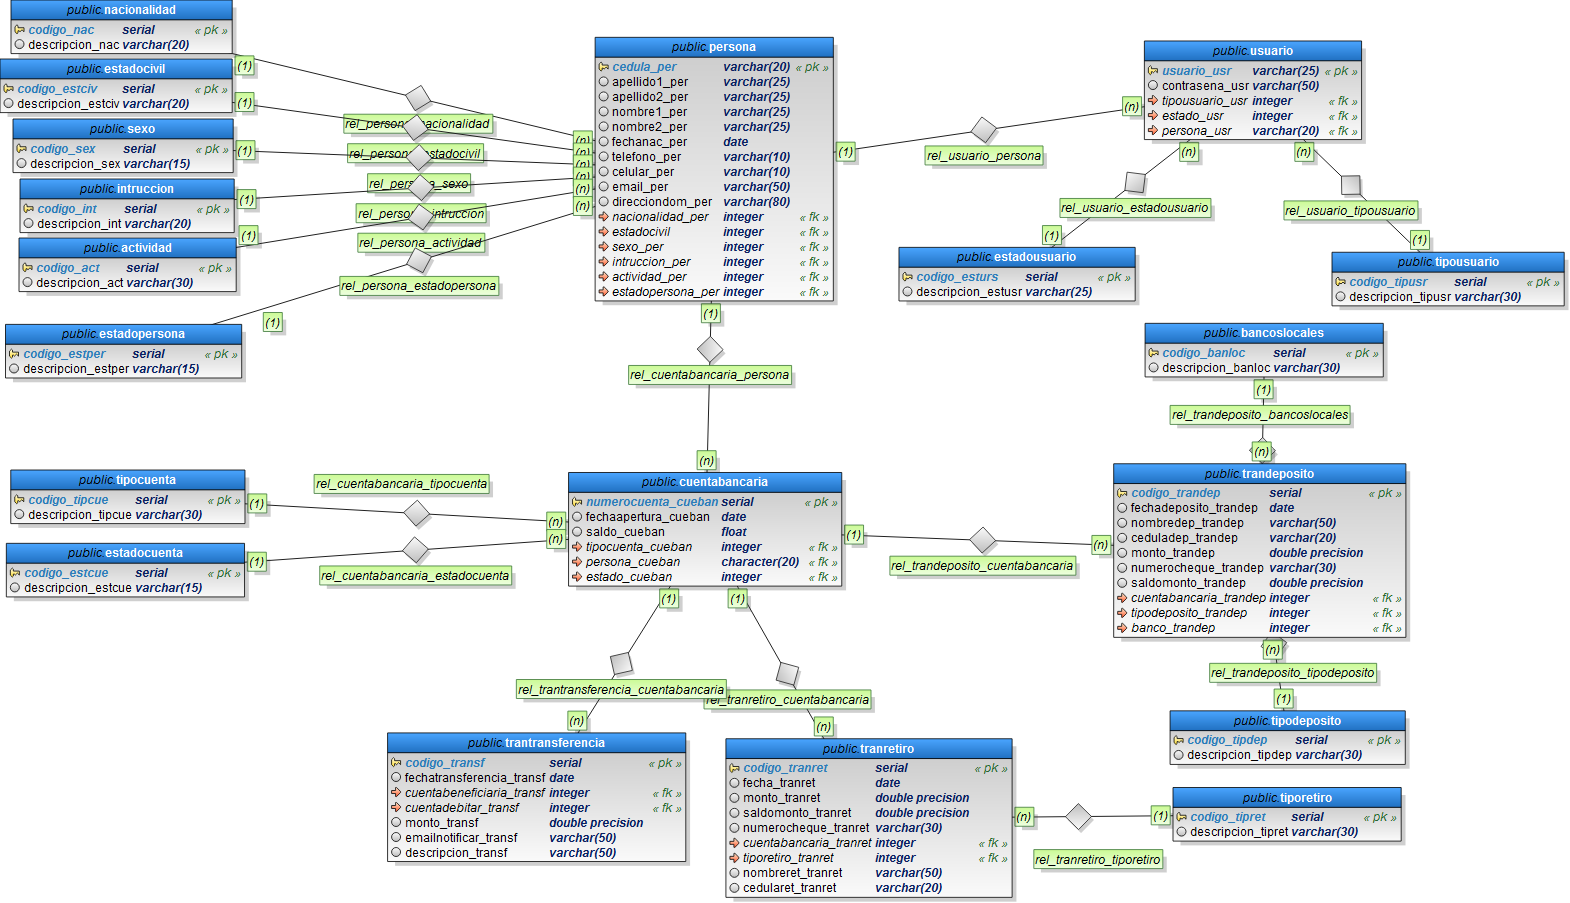
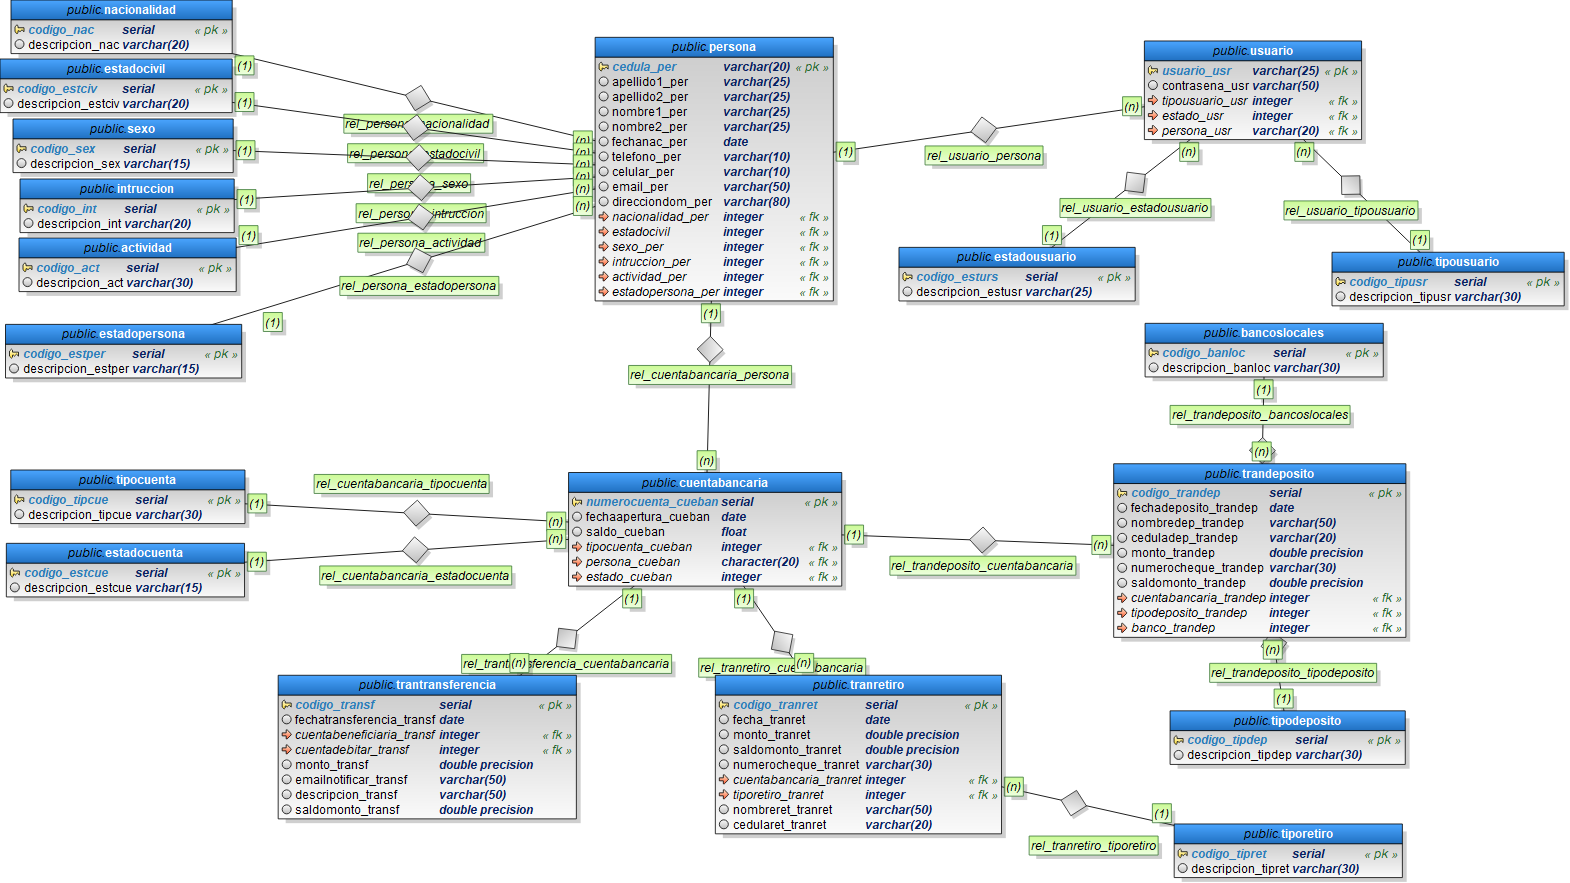
formulario transferencia  avance 80%

Changed region(s): [[0.0, 0.0306, 0.9987, 1.0], [0.0, 0.0, 0.5306, 0.4587]]

diff --git a/css/estilos.css b/css/estilos.css
@@ -561,11 +561,11 @@ fieldset {
  color: blue;
  font-weight: bolder;
 }
-/* .contenedorControlesForm fieldset table, tr, td{
-    border: solid 1px rgb(0, 0, 0);
+ /* .contenedorControlesForm fieldset table, tr, td{
+    border: solid 1px rgba(242, 255, 0, 0.975);
     border-collapse: collapse ;
     margin: 0%;
     padding: 0%;
-}
+} */
 
- */
+ 

diff --git a/sqlReadTranTransferencia.php b/sqlReadTranTransferencia.php
@@ -6,8 +6,17 @@
  $nombre2_per='';
  $celular_per='';
  $email_per='';
- $estadopersona_per=0;
  $descripcionestper_estper='';
+
+ $cedula_per_B='';
+ $apellido1_per_B='';
+ $apellido2_per_B='';
+ $nombre1_per_B='';
+ $nombre2_per_B='';
+ $celular_per_B='';
+ $email_per_B='';
+ $descripcionestper_estper_B='';
+ $descripcion_tipcue_B='';
 
  $dateAC=''; 
  $saldo_cueban=0;
@@ -15,67 +24,105 @@
 
  $descripcion_estcue='';
  $descripcion_tipcue='';
- $numCCC=0;
- $numTransferencia=0;
+ $numCCC='';
+ $numCCC_B='';
+ $numtransferencia='';
   
 
-if(isset($_POST['buscar_TR'])){     
-   
-    
+if(isset($_POST['buscar_TF'])){  
 
     require_once './conex.php';
-    $conexion=conectarBD();    
-    //consulta buscar en la tabla cuenta
-    $buscarDato=$_POST['txtbuscarDato'];
-    $consulta="SELECT 
-	*FROM public.cuentabancaria, public.persona, public.estadopersona, public.estadocuenta, public.tipocuenta
-    WHERE numerocuenta_cueban='$buscarDato' 
-    and persona_cueban=cedula_per 
-    and estadopersona_per=codigo_estper
-	and tipocuenta_cueban=codigo_tipcue
-	and estado_cueban=codigo_estcue;";
-    $resultado=pg_query($conexion,$consulta) or die (" error no se realizo la consulta en la tabla cuentabancaria");
+    $conexion=conectarBD();   
+
+    if($_POST['txtbuscarDato1']!= $_POST['txtbuscarDato2']){//valida que las cuentas no sean las mismas
     
-    if(pg_num_rows($resultado)>0){
+         
+        //consulta buscar en la tabla cuenta
+        $buscarDato1=$_POST['txtbuscarDato1'];
+        $consulta="SELECT 
+        *FROM public.cuentabancaria, public.persona, public.estadopersona, public.estadocuenta, public.tipocuenta
+        WHERE numerocuenta_cueban='$buscarDato1' 
+        and persona_cueban=cedula_per 
+        and estadopersona_per=codigo_estper
+        and tipocuenta_cueban=codigo_tipcue
+        and estado_cueban=codigo_estcue;";
+        $resultado_D=pg_query($conexion,$consulta) or die (" error no se realizo la consulta en la tabla cuentabancaria");
+        
+        if(pg_num_rows($resultado_D)>0){
 
-        while($row=pg_fetch_array($resultado)){            
-            $numCCC=$row['numerocuenta_cueban'];
-            $dateAC=$row['fechaapertura_cueban'];
-            $saldo_cueban=$row['saldo_cueban'];
             
-            $descripcion_estcue=$row['descripcion_estcue'];
-            $descripcion_tipcue=$row['descripcion_tipcue'];
+        echo '<h4 id ="msmcorreto" > El número de cuenta a debitar encontrado. </h4>' ;
 
-            $cedula_per=$row['cedula_per'];
-            $apellido1_per=$row['apellido1_per'];
-            $apellido2_per=$row['apellido2_per'];
-            $nombre1_per=$row['nombre1_per'];
-            $nombre2_per=$row['nombre2_per'];
-            $fechanac_per=$row['fechanac_per'];
-            $telefono_per=$row['telefono_per'];
-            $celular_per=$row['celular_per'];
-            $email_per=$row['email_per'];
-            $descripcionestper_estper=$row['descripcion_estper'];                     
+        
+            $buscarDato2=$_POST['txtbuscarDato2'];
+            $consulta="SELECT 
+            *FROM public.cuentabancaria, public.persona, public.estadopersona, public.estadocuenta, public.tipocuenta
+            WHERE numerocuenta_cueban='$buscarDato2' 
+            and persona_cueban=cedula_per 
+            and estadopersona_per=codigo_estper
+            and tipocuenta_cueban=codigo_tipcue
+            and estado_cueban=codigo_estcue;";
+            $resultado_B=pg_query($conexion,$consulta) or die (" error no se realizo la consulta en la tabla cuentabancaria");
 
+            if(pg_num_rows($resultado_B)>0){
+
+                while($row=pg_fetch_array($resultado_D)){            
+                    $numCCC=$row['numerocuenta_cueban'];
+                    
+                    $descripcion_tipcue=$row['descripcion_tipcue'];
+        
+                    $cedula_per=$row['cedula_per'];
+                    $apellido1_per=$row['apellido1_per'];
+                    $apellido2_per=$row['apellido2_per'];
+                    $nombre1_per=$row['nombre1_per'];
+                    $nombre2_per=$row['nombre2_per'];
+                    $celular_per=$row['celular_per'];
+                    $email_per=$row['email_per'];
+                    $descripcionestper_estper=$row['descripcion_estper'];                     
+        
+                }
+                
+                pg_free_result($resultado_D);
+
+                while($row=pg_fetch_array($resultado_B)){            
+                    $numCCC_B=$row['numerocuenta_cueban'];
+
+                    $descripcion_tipcue_B=$row['descripcion_tipcue'];
+        
+                    $cedula_per_B=$row['cedula_per'];
+                    $apellido1_per_B=$row['apellido1_per'];
+                    $apellido2_per_B=$row['apellido2_per'];
+                    $nombre1_per_B=$row['nombre1_per'];
+                    $nombre2_per_B=$row['nombre2_per'];
+                    $celular_per_B=$row['celular_per'];
+                    $email_per_B=$row['email_per'];
+                    $descripcionestper_estper_B=$row['descripcion_estper'];                     
+        
+                }
+                echo '<h4 id ="msmcorreto" > El número de cuenta beneficiario encontrado. </h4>' ;
+            }else{
+                    echo '<h4 id ="errorSis" > El número de cuenta beneficiario no es la correcta. </h4>' ;
+
+            }
+            pg_free_result($resultado_B);
+            
+            
+            //PARA CONSULTAR EL ULTIMO UMERO DE TRANSFERENCIA Y SUMARLE UNO PARA EL NUEVO Y MANIPULAR MANUAL
+            $consulta="SELECT max(codigo_transf)
+                        FROM trantransferencia;";
+            $resultado=pg_query($conexion,$consulta) or die ("error no se pudo contar el total de numero de registros en tabla trnsferencia");
+            $numtransferencia=pg_fetch_result($resultado,0) + 1;
+        
         }
-
-      pg_free_result($resultado);
-
-        $consulta="SELECT max(codigo_tranret)
-                    FROM tranretiro;";
-        $resultado=pg_query($conexion,$consulta) or die ("error no se pudo contar el total de numero de cuentas");
-        $numRetiro=pg_fetch_result($resultado,0) + 1;
-
-
-
-        echo '<h4 id ="msmcorreto" > El número de cuenta encontrado. </h4>' ;
-
-    }
-    else{
-        echo '<h4 id ="errorSis" > El número de cuenta no existe, vuelva a intentar. </h4>' ;
+        else{
+            echo '<h4 id ="errorSis" > El número de cuenta a debitar no encontrada, vuelva a intentar. </h4>' ;
+        }
+    }else{
+        echo '<h4 id ="errorSis" > Los números de cuenta son iguales, no se puede realizar transferencia, las cuentas deben ser diferentes </h4>' ;
+        
     }
 
-    pg_close($conexion);
+    pg_close($conexion);     
 }//if isset buscar fin
 
 

diff --git a/frmTranTransferencia.php b/frmTranTransferencia.php
@@ -32,20 +32,20 @@
                     <form action="" method="post">
                         <table>
                             <tr>
-                                <td> <label for=""><span>N° Cuenta trasfiere::</span></label> </td>
+                                <td> <label for=""><span>N° Cuenta a debitarse:</span></label> </td>
                                 <td colspam="2"> <input type="text" name="txtbuscarDato1" id="validarCedulaEcu" size="20" onKeyPress='return validaNumericos(event)' maxlength="10" placeholder="ej. 002" required  oninvalid="this.setCustomValidity('Se Requiere ingrese N° cuenta')" oninput="this.setCustomValidity('')"> </td>
-                                <td> <label for=""><span>N° Cuenta beneficiaria::</span></label> </td>
+                                <td> <label for=""><span>N° Cuenta beneficiaria:</span></label> </td>
                                 <td colspam="2"> <input type="text" name="txtbuscarDato2" id="validarCedulaEcu" size="20" onKeyPress='return validaNumericos(event)' maxlength="10" placeholder="ej. 002" required  oninvalid="this.setCustomValidity('Se Requiere ingrese N° cuenta')" oninput="this.setCustomValidity('')"> </td>
 
                                 <td> <input type="submit" name="buscar_TF" value="&#128270; Buscar"> </td>
                             </tr>
                         </table>
                     </form> 
-                    <?php require 'sqlReadTranRetirodeposito.php'; ?>
+                    <?php require 'sqlReadTranTransferencia.php'; ?>
                     
 
                     <form action="" method="post">
-                        <fieldset   > <legend>Información de la cuenta que transfiere</legend>
+                        <fieldset   > <legend>Información de la cuenta a debitarse</legend>
 
                             <table >
                                 <tr>
@@ -73,7 +73,7 @@
                                         <td> <input type="text" size="15" id="imputsincolor" name="desTipoCuenta_AC" value="<?php echo $descripcion_tipcue; ?>" readonly> </td> 
                                                                            
                                         <td > <label for=""><span >Número de cuenta: </span></label></td>                                
-                                        <td colspan="12" >  <input type="text" size="24" id="numCuenta" name="txtCCC" value="<?php echo $numCCC; ?>" readonly> </td> 
+                                        <td colspan="12" >  <input type="text" size="24" id="numCuenta" name="txtCCC_D" value="<?php echo $numCCC; ?>" readonly> </td> 
                                 </tr>  
                             </table>                                                        
                         </fieldset>
@@ -106,7 +106,7 @@
                                         <td> <input type="text" size="15" id="imputsincolor" name="desTipoCuenta_AC" value="<?php echo $descripcion_tipcue_B; ?>" readonly> </td> 
                                                                         
                                         <td > <label for=""><span >Número de cuenta: </span></label></td>                                
-                                        <td colspan="12" >  <input type="text" size="24" id="numCuenta" name="txtCCC" value="<?php echo $numCCC_B; ?>" readonly> </td> 
+                                        <td colspan="12" >  <input type="text" size="24" id="numCuenta" name="txtCCC_B" value="<?php echo $numCCC_B; ?>" readonly> </td> 
                                 </tr>  
                             </table>                                                        
                         </fieldset>
@@ -117,15 +117,17 @@
                             <table>
                                 <tr>
                                     <td> <label for=""><span> N° transferencia :</span></label> </td>
-                                    <td> <input type="text" size="8" name="numTransferencia"  value="<?php echo $numRetiro?>" readonly> </td>
-
+                                    <td> <input type="text" size="8" name="numTransferencia"  value="<?php echo $numtransferencia?>" readonly> </td>
+                                </tr>
+                                <tr>
                                     <td> <label for=""><span> Fecha de transferencia:</span></label> </td>
                                     <td> <input type="text" size="8" name="dtfechaAper_AC"  value="<?php echo date('Y-m-d')?>" readonly> </td>
-                                
-                                                                        
+                                                              
                                     <td> <label for=""><span>Valor a transferir $USD:</span></label> </td>
                                     <td> <input type="text" name="txtvalor" placeholder="ej. 100" maxlength="8" onKeyPress='return validaNumericos(event)' required>  </td>
-
+                               
+                                    <td colspam="2"> <label for=""><span>Descripción de transferencia:</span></label> </td>
+                                    <td colspam="3"> <input type="text" size="30" value="<?php echo $descripcion_transf; ?>" name="txtdescripciontrans" maxlength="10" placeholder="Primer nombre" required> </td>
                                 </tr>
 
 
@@ -133,12 +135,11 @@
 
                         </fieldset>    
 <br> 
-                        <input type="submit" name="crear_retiro" value="&#10004; Registrar retiro e imprimir">                        
+                        <input type="submit" name="crear_transferencia" value="&#10004; Registrar retiro e imprimir">                        
                         <!-- <input type="submit" name="eliminar_UDC" value="&#128221; Eliminar cuenta bancaria"> -->
-                        <p style="display=grid; text-align:center; color:blue; "> 
+                        <!-- <p style="display=grid; text-align:center; color:blue; ">  -->
                     <!-- <b>Aviso: </b>  Para considerar una eliminacion de una cuenta bancaria ya creada, esta solo se realizara cuando haya sido creado la fecha actual y si el usuario tiene la certeza de haber cometido un error al resgistrar.</p> -->
-                                              
-
+     
                     </form>
                     <br>
                      <?php require 'sqlCreateTranRetiro.php'; ?> 

diff --git a/sqlCreateTranRetiro.php b/sqlCreateTranRetiro.php
@@ -29,7 +29,7 @@
                                 $tiporetiro_tranret=$_POST['descripcionTipoRetiro']; 
                                 $numerocheque_tranret=$_POST['txtcheque']; 
                                 $nombreret_tranret=$_POST['txtanomape']; 
-                                $cedula_tranret=$_POST['txtcedularet']; 
+                                $cedularet_tranret=$_POST['txtcedularet']; 
                                 
                                 $saldocuenta=0;
                                 $constCorriente=-500;
@@ -55,7 +55,6 @@
                                     if($saldomonto_tranret<=$constCorriente and $_POST['desTipoCuenta_AC']=='CORRIENTE'){
                                         echo '<br> <h4 id ="errorSis" > Valor a retirar demasiado alto a lo que existe en la cuenta, o la cuenta CORRIENTE no tiene fondos. </h4>' ;    
                                     }else{// ejecuto los sql para generar retiro 
-
                                        
                                         $consulta="INSERT INTO public.tranretiro(
                                             codigo_tranret, 
@@ -66,7 +65,7 @@
                                             tiporetiro_tranret, 
                                             numerocheque_tranret, 
                                             nombreret_tranret, 
-                                            cedula_tranret)
+                                            cedularet_tranret)
                                             VALUES (
                                                     $codigo_tranret, -- codigo
                                                     '$fecha_tranret', 
@@ -76,7 +75,7 @@
                                                     $tiporetiro_tranret, 
                                                     '$numerocheque_tranret', 
                                                     '$nombreret_tranret', 
-                                                    '$cedula_tranret'
+                                                    '$cedularet_tranret'
                                                     );";
                                         $resultado=pg_query($conexion,$consulta) or die ("error no se puede registrar retiro en la tabla tranretiro");
                                         pg_free_result($resultado);

diff --git a/sqlCreateTranTransferencia.php b/sqlCreateTranTransferencia.php
@@ -1,0 +1,33 @@
+<?php
+
+
+    if(isset($_POST['crear_transferencia'])){
+
+        if($_POST['txtcedulatranret']!='' and $_POST['txtcedulatranret_B']!='' ){//validamos que exista la consulta de cuenta a debitar y beneficiario
+
+            $codigo_transf=$_POST['numTransferencia']; 
+            $fechatransferencia_transf=$_POST['dtfechaAper_AC']; 
+            $cuentabeneficiaria_transf=$_POST['txtCCC_B']; 
+            $cuentadebitar_transf=$_POST['txtCCC_D']; 
+            $monto_transf=$_POST['txtvalor']; 
+            $emailnotificar_transf=$_POST['txtemail']; 
+            $descripcion_transf=$_POST['']; 
+            $saldomonto_transf=0; //calcular
+            
+            //PARA CALCULAR CUENTAS CON SALDO DISPONIBLE Y SUMAR 
+            $saldocuentadebitar=0;
+            $saldocuentaBeneficiario=0;
+            $constCorriente=-500;
+
+
+
+        }else{
+            echo '<h4 id ="errorSis" > Faltan campos por completar: informacion de  cuenta debitar o cuenta benificiario.  , vuelva a intentar. </h4>' ;
+        }
+    }
+
+
+
+
+
+?>
